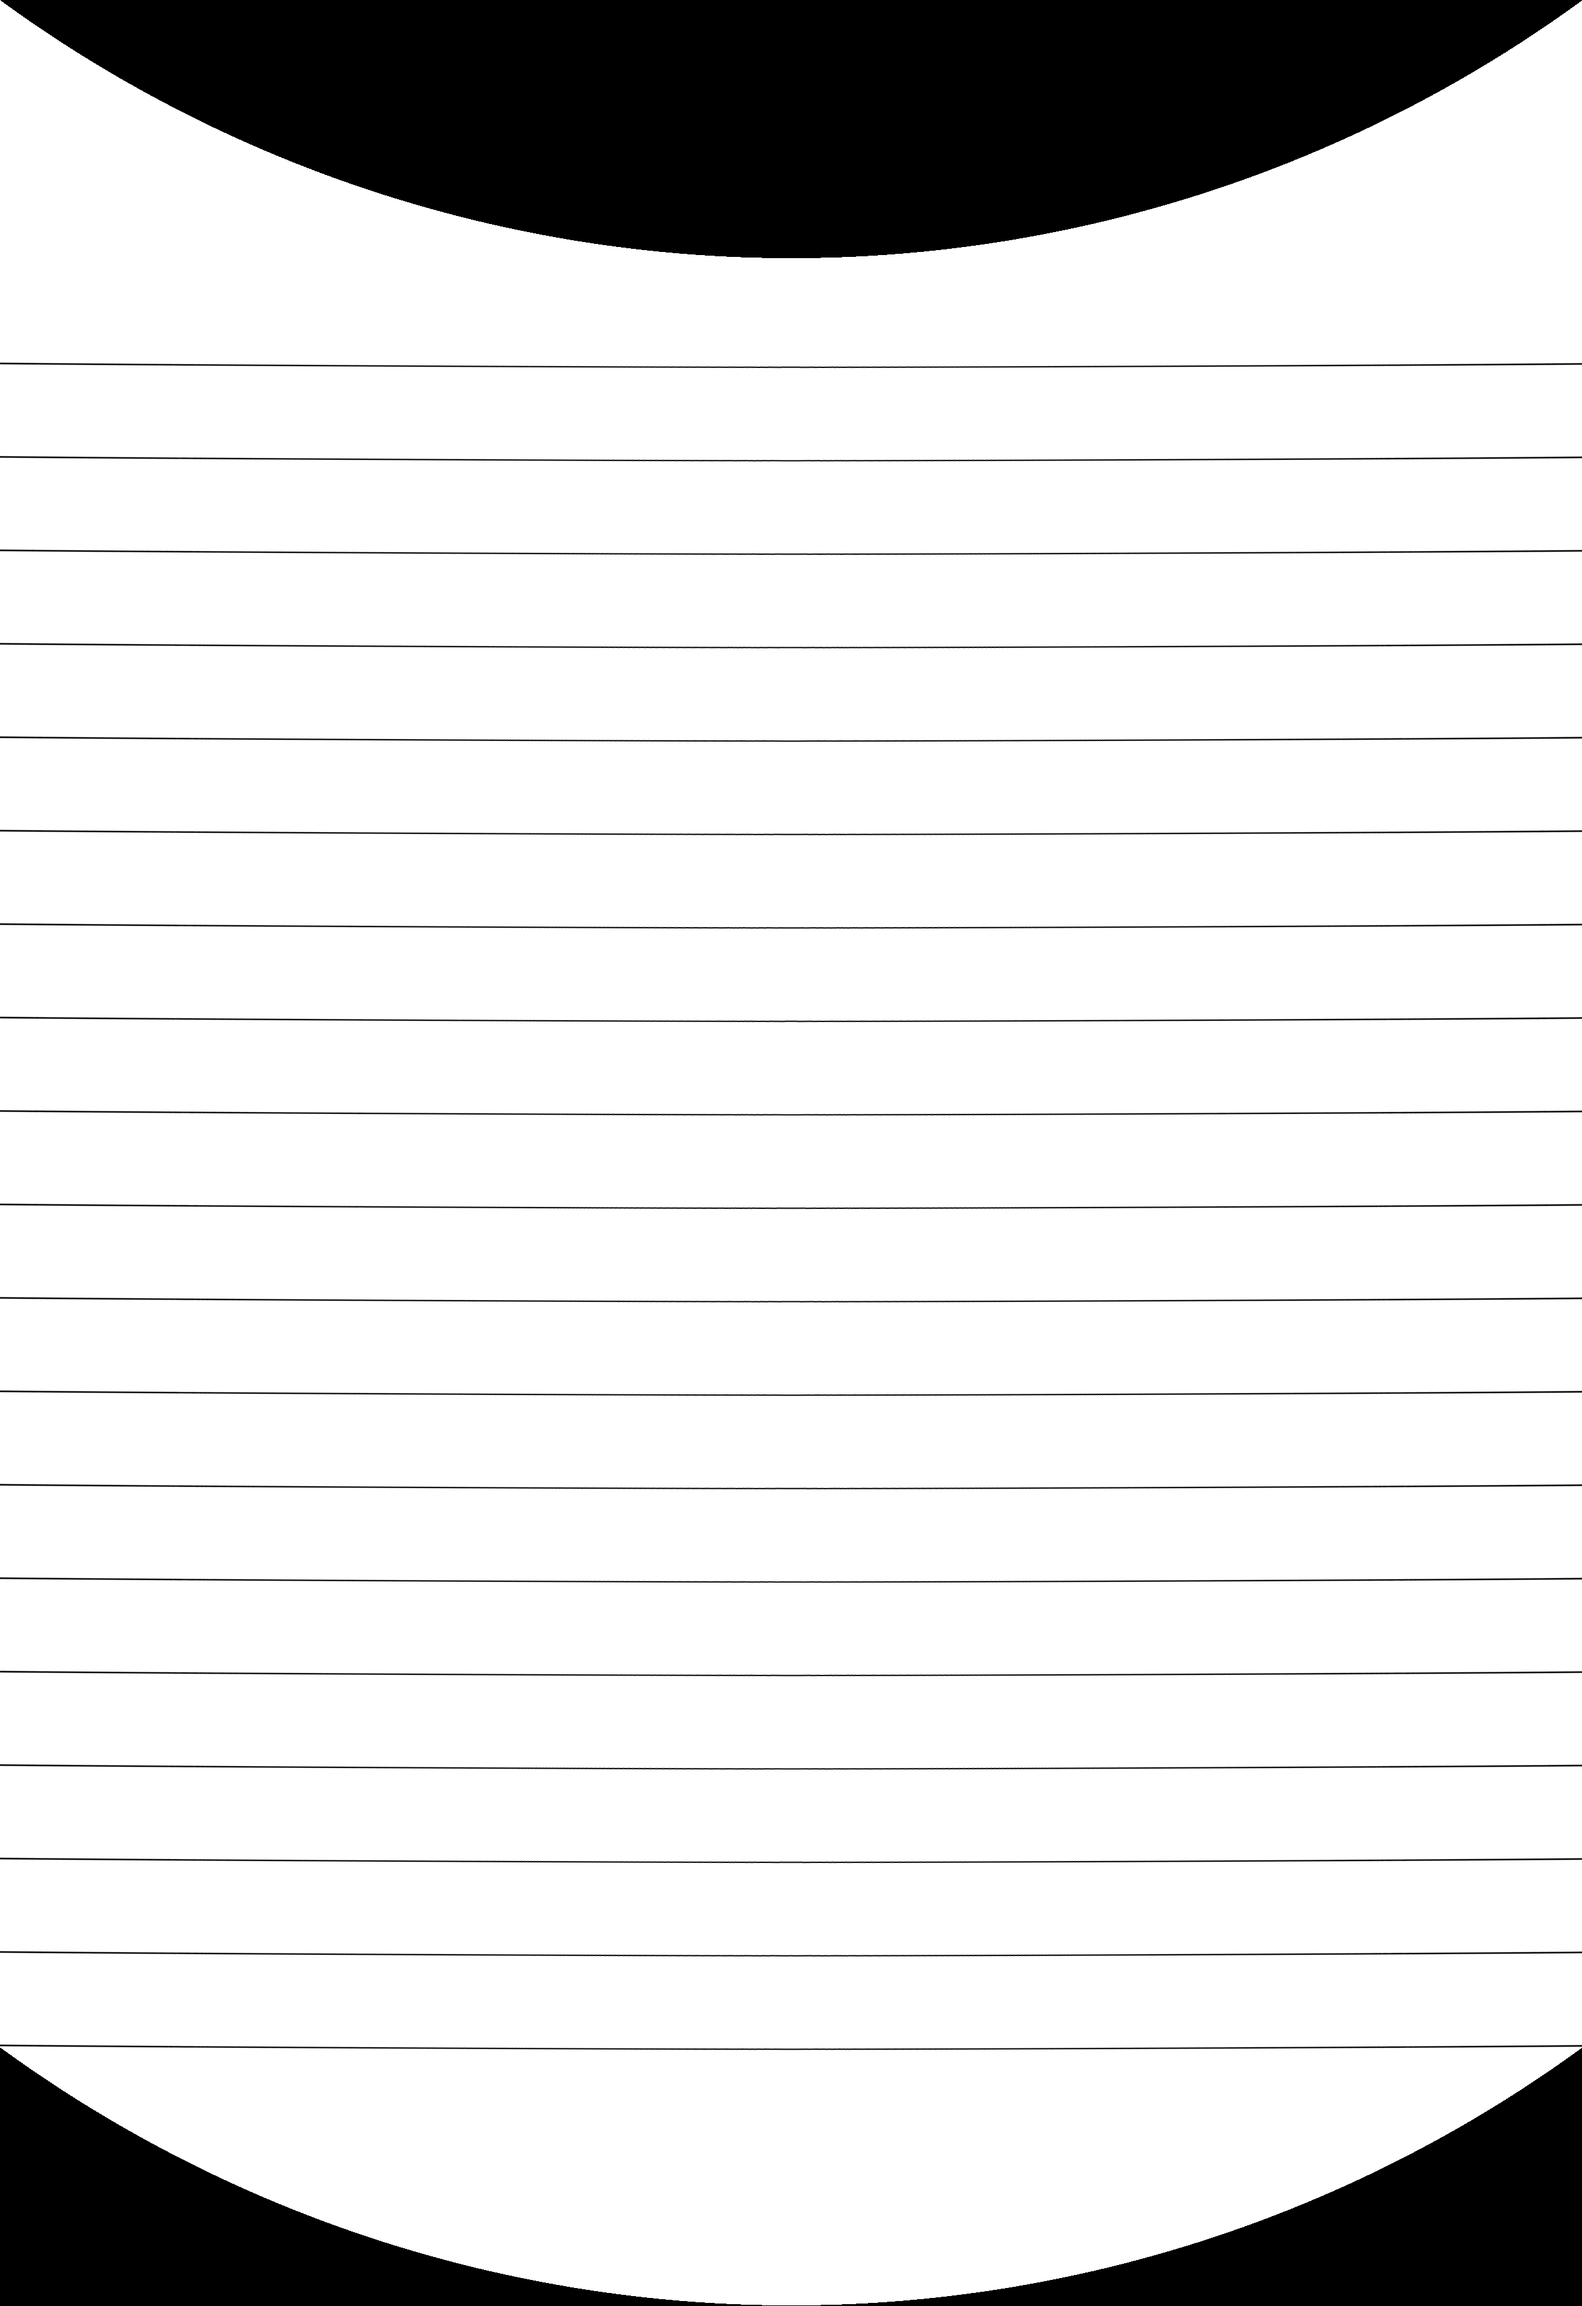
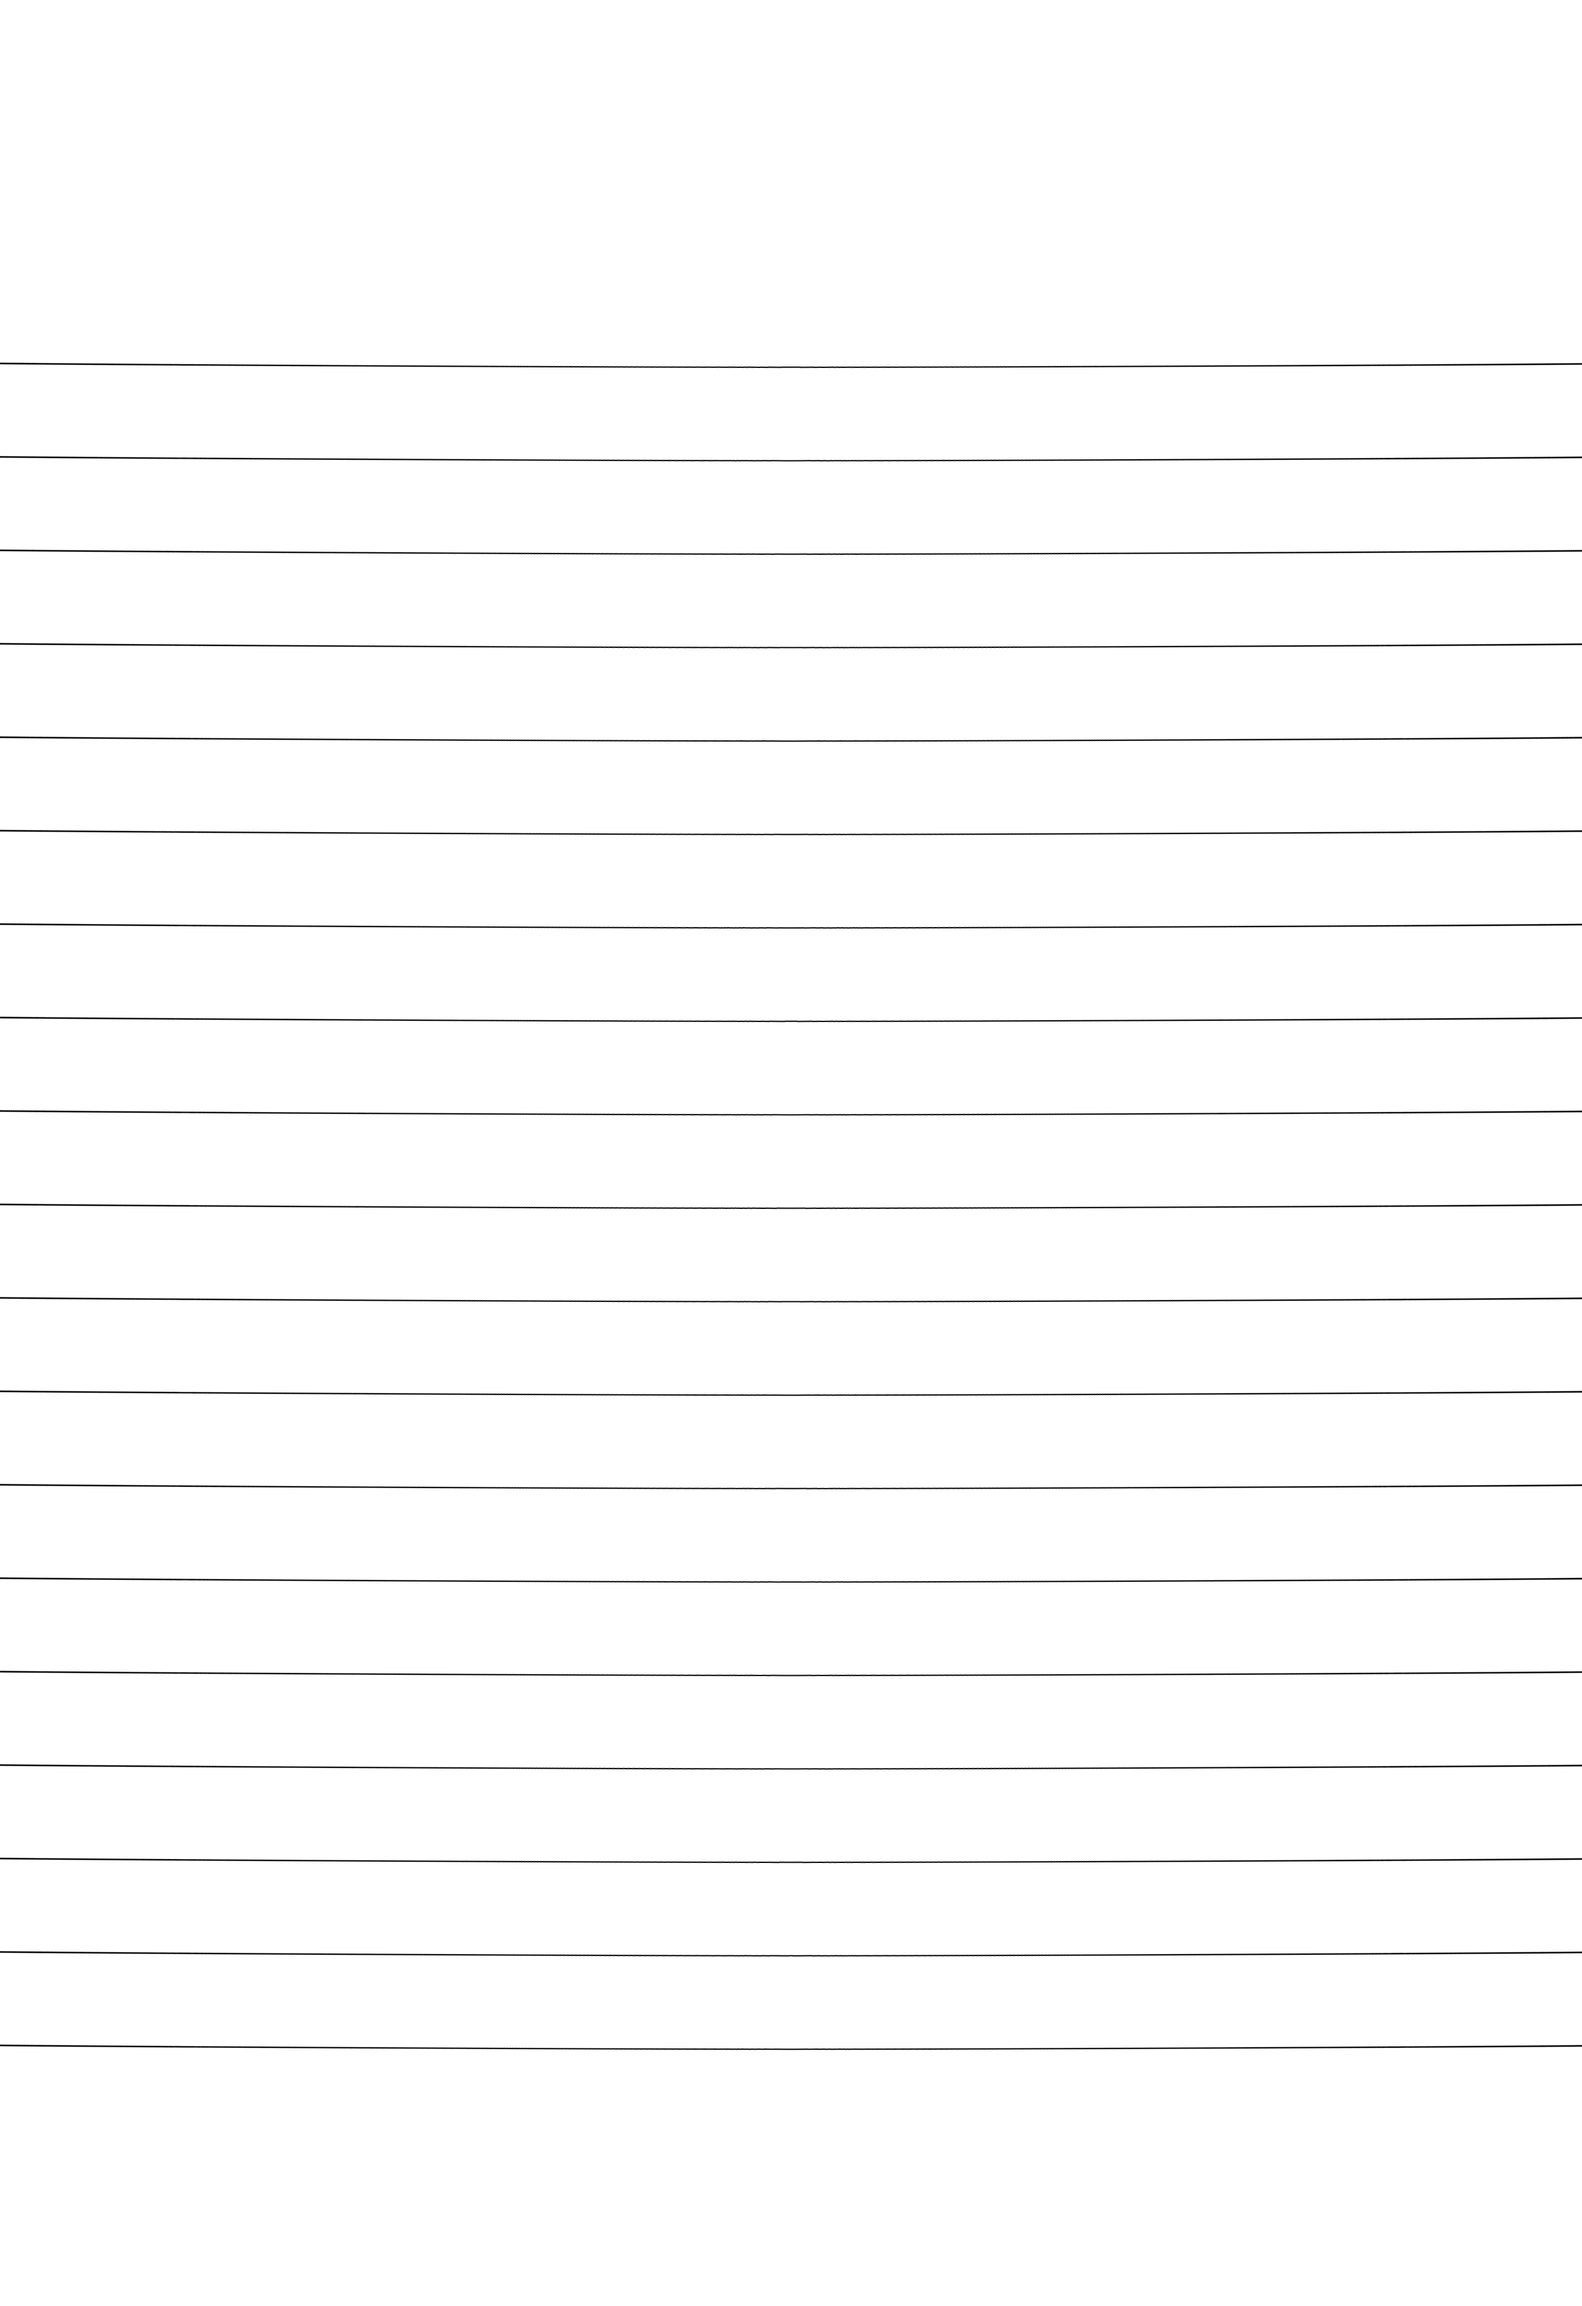
Background is now white.

Changed region(s): [[0.0, 0.0, 0.9914, 0.1249], [0.0, 0.8741, 1.0, 1.0]]

diff --git a/rectifier/morph.py b/rectifier/morph.py
@@ -26,7 +26,7 @@ class Transformer:
 
     
     def run(self):
-        return scipy.ndimage.interpolation.geometric_transform(input=self.original_image, mapping=self.mapping, output_shape=self.output_shape)
+        return scipy.ndimage.interpolation.geometric_transform(input=self.original_image, mapping=self.mapping, output_shape=self.output_shape, mode="constant", cval=255)
 
 
     def mapping(self, output_coords):
